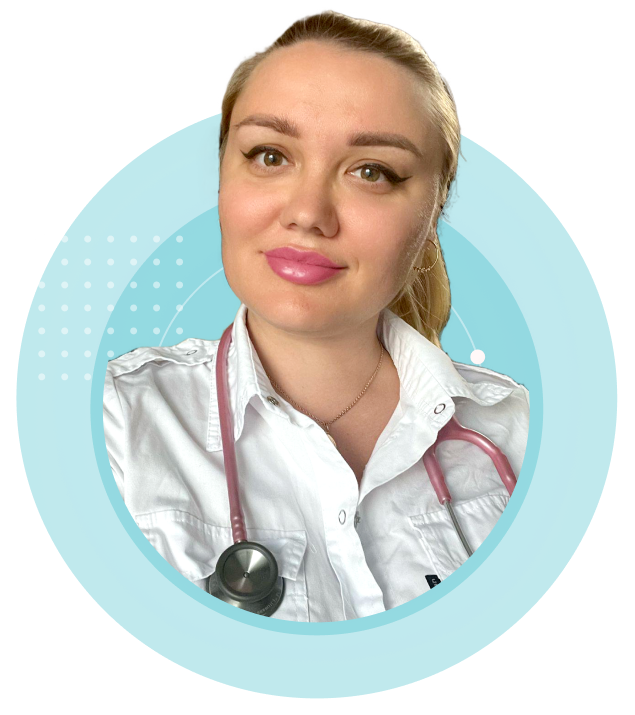
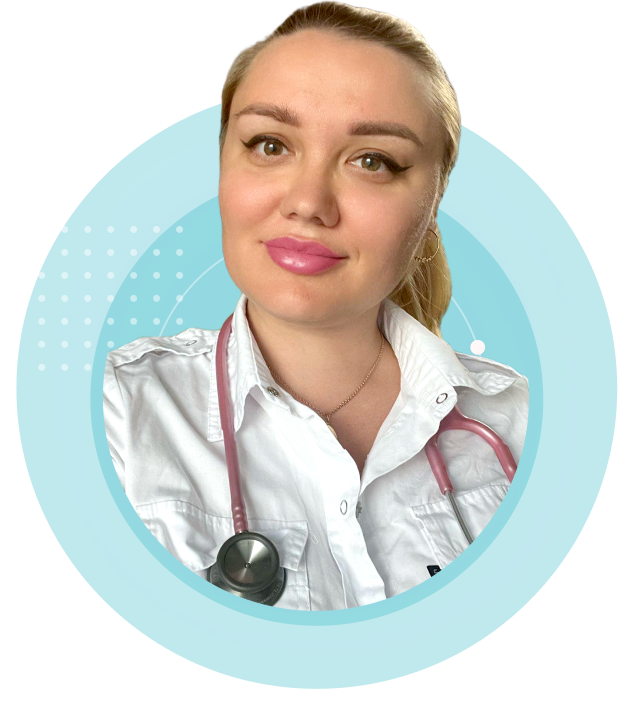
fix: 🐛 Обновил фотографию, исправил ошибки

diff --git a/src/components/base-blocks/_base-content.html b/src/components/base-blocks/_base-content.html
@@ -502,8 +502,7 @@
           <h2 class="faq__title section-title base-title">О чём часто спрашивают</h2>
           <div class="faq__spoilers">
             <div class="faq__spoilers-item">
-              <input class="faq__check-hidden visually-hidden" type="checkbox" id="spoilers-check-1"
-                name="about-spoilers">
+              <input class="faq__check-hidden visually-hidden" type="radio" id="spoilers-check-1" name="about-spoilers">
               <label class="faq__spoilers-button" for="spoilers-check-1">
                 <span class="faq__spoilers-caption">Как будет проходить консультация?</span>
                 <div class="faq__spoilers-cross"></div>
@@ -517,8 +516,7 @@
               </div>
             </div>
             <div class="faq__spoilers-item">
-              <input class="faq__check-hidden visually-hidden" type="checkbox" id="spoilers-check-2"
-                name="about-spoilers">
+              <input class="faq__check-hidden visually-hidden" type="radio" id="spoilers-check-2" name="about-spoilers">
               <label class="faq__spoilers-button" for="spoilers-check-2">
                 <span class="faq__spoilers-caption">Можно ли записаться на консультацию если нет анализов?</span>
                 <div class="faq__spoilers-cross"></div>
@@ -530,8 +528,7 @@
               </div>
             </div>
             <div class="faq__spoilers-item">
-              <input class="faq__check-hidden visually-hidden" type="checkbox" id="spoilers-check-3"
-                name="about-spoilers">
+              <input class="faq__check-hidden visually-hidden" type="radio" id="spoilers-check-3" name="about-spoilers">
               <label class="faq__spoilers-button" for="spoilers-check-3">
                 <span class="faq__spoilers-caption">Есть ли особые рекомендации перед консультацией врача –<br>
                   гематолога</span>
@@ -547,8 +544,7 @@
               </div>
             </div>
             <div class="faq__spoilers-item">
-              <input class="faq__check-hidden visually-hidden" type="checkbox" id="spoilers-check-4"
-                name="about-spoilers">
+              <input class="faq__check-hidden visually-hidden" type="radio" id="spoilers-check-4" name="about-spoilers">
               <label class="faq__spoilers-button" for="spoilers-check-4">
                 <span class="faq__spoilers-caption">Может ли врач после консультации дать направление на лечение в
                   какую-либо клинику?</span>
@@ -559,8 +555,7 @@
               </div>
             </div>
             <div class="faq__spoilers-item">
-              <input class="faq__check-hidden visually-hidden" type="checkbox" id="spoilers-check-5"
-                name="about-spoilers">
+              <input class="faq__check-hidden visually-hidden" type="radio" id="spoilers-check-5" name="about-spoilers">
               <label class="faq__spoilers-button" for="spoilers-check-5">
                 <span class="faq__spoilers-caption">Можно ли получить консультация врача – гематолога во время
                   беременности</span>
@@ -572,8 +567,7 @@
               </div>
             </div>
             <div class="faq__spoilers-item">
-              <input class="faq__check-hidden visually-hidden" type="checkbox" id="spoilers-check-6"
-                name="about-spoilers">
+              <input class="faq__check-hidden visually-hidden" type="radio" id="spoilers-check-6" name="about-spoilers">
               <label class="faq__spoilers-button" for="spoilers-check-6">
                 <span class="faq__spoilers-caption">Как можно отменить уже оплаченную консультацию?</span>
                 <div class="faq__spoilers-cross"></div>
@@ -779,8 +773,7 @@
       <div class="questions__aside">
         <div class="questions__aside-inner">
           <figure class="questions__aside-image base-figure">
-            <img class="questions__aside-img" src="img/image/design/questions-graphic.png"
-              alt="Фотография врача">
+            <img class="questions__aside-img" src="img/image/design/questions-graphic.png" alt="Фотография врача">
           </figure>
         </div>
       </div>

diff --git a/src/js/index.js b/src/js/index.js
@@ -26,12 +26,5 @@ navigationLinks.forEach((element) => {
   });
 });
 
-var more = $('.faq__check-hidden');
+let spoilerItems = document.querySelectorAll('.faq__check-hidden');
 
-more.click(function() {
-  //$(this).toggle(); //скрыть кнопку подробнее
-  $(".faq__spoilers-item .faq__spoilers-content", this.parentNode).toggle('faq__spoilers-content--opened');
-  
-  //more.toggleClass('more__none');
-  //$("ul li:nth-child(n + 5)", this.parentNode).toggleClass('li_on');
-});

diff --git a/tasks/minJs.js b/tasks/minJs.js
@@ -2,7 +2,7 @@ const { src, dest } = require('gulp');
 const plumber = require('gulp-plumber');
 const webpack = require('webpack-stream');
 
-let isDev = false;
+let isDev = true;
 
 // Минификация JavaScript
 let webConfig = {
